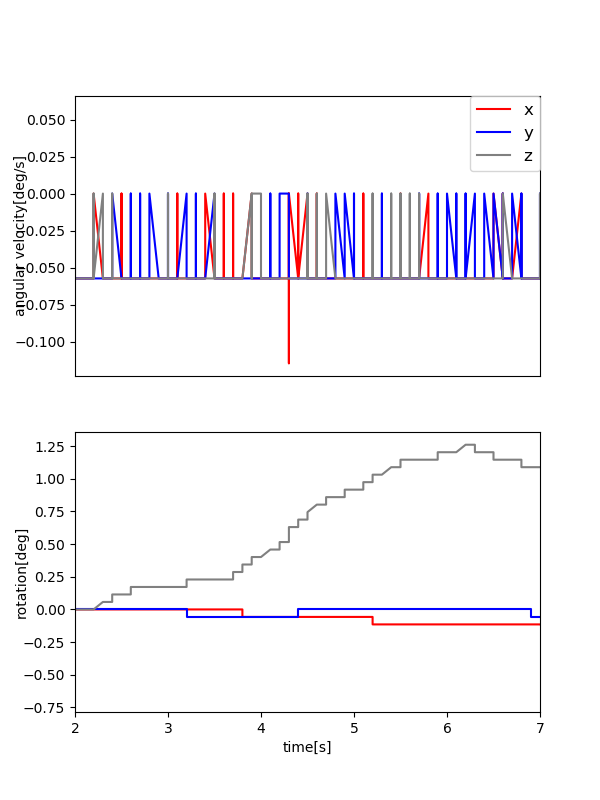
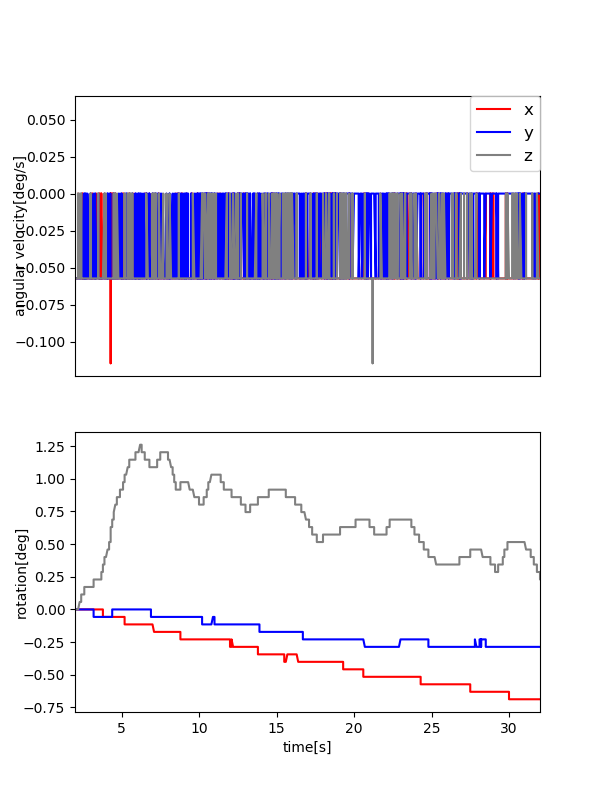
rotationMatrix

diff --git a/app/src/main/java/com/example/deadreckoning/MainActivity.java b/app/src/main/java/com/example/deadreckoning/MainActivity.java
@@ -16,172 +16,221 @@ import java.io.OutputStreamWriter;
 import java.io.PrintWriter;
 
 public class MainActivity extends AppCompatActivity implements SensorEventListener {
-    private SensorManager m_sensorManager;
+    private SensorManager sensorManager;
 
-    private TextView m_accel_val_x_TextView, m_accel_val_y_TextView, m_accel_val_z_TextView;
-    private TextView m_rot_val_x_TextView, m_rot_val_y_TextView, m_rot_val_z_TextView;
-    private TextView m_vel_val_x_TextView, m_vel_val_y_TextView, m_vel_val_z_TextView;
-    private TextView m_pos_val_x_TextView, m_pos_val_y_TextView, m_pos_val_z_TextView;
+    // 画面表示
+    private TextView acc_x_text, acc_y_text, acc_z_text;
+    private TextView vel_x_text, vel_y_text, vel_z_text;
+    private TextView pos_x_text, pos_y_text, pos_z_text;
+    private TextView rot_x_text, rot_y_text, rot_z_text;
 
-    private float m_sensor_accel_val_x, m_sensor_accel_val_y, m_sensor_accel_val_z;
-    private float m_sensor_rot_val_x, m_sensor_rot_val_y, m_sensor_rot_val_z;
-
-    private Runnable m_runnable;
-    private final Handler m_handler = new Handler();
-
-    double filterCoefficient = 0.9;
-    double[] lowpassValue = {0,0,0};
-
-    final double timeSpan = 0.02;      // 時間差分[s]
+    // 周期ハンドラ
+    private Runnable runnable;
+    private final Handler handler = new Handler();
+    
+    // 時間
+    final double timeSpan = 0.02;
     double time = 0;
+    double start;
 
-    double[] speed = {0,0,0};
-    double[] diff = {0,0,0};
-    double[] oldacc = {0,0,0};
-    double[] oldspeed = {0,0,0};
+    // 加速度センサー
+    float[] acc_device = new float[3];
+    float[] acc_world = new float[3];
+    float[] speed = new float[3];
+    float[] diff = new float[3];
+    float[] oldacc = new float[3];
+    float[] oldspeed = new float[3];
 
-    double[] rotdiff = {0,0,0};
-    double[] oldrotacc = {0,0,0};
-    double[] oldrotspeed = {0,0,0};
+    // ジャイロセンサー
+    float[] angularVelocity = new float[3];
+    float[] angulardiff = new float[3];
+    float[] oldAngularVelocity = new float[3];
 
+    // 地磁気・重力センサー
+    float[] geomagnetic = new float[3];
+    float[] gravity = new float[3];
+    float[] rotationMatrix = new float[9];
+    float[] attitude = new float[3];
+
+    // 出力ファイル名
     String fileName = "pos.txt";
 
-    private static final int MATRIX_SIZE = 16;
+    protected final static float RAD2DEG = 180/(float)Math.PI;
 
     @Override protected void onCreate(Bundle savedInstanceState) {
         super.onCreate(savedInstanceState);
         setContentView(R.layout.activity_main);
 
         deleteFile(fileName);
-        sampleFileOutput("time,acc_x,acc_y,acc_z,vel_x,vel_y,vel_z,pos_x,pos_y,pos_z," +
-                "rot_x,rot_y,rot_z,rotvel_x,rotvel_y,rotvel_z,rotpos_x,rotpos_y,rotpos_z\n", fileName);
+        sampleFileOutput("time," +
+                "acc_x,acc_y,acc_z," +
+                "vel_x,vel_y,vel_z," +
+                "pos_x,pos_y,pos_z," +
+                "rot_x,rot_y,rot_z," +
+                "rotvel_x,rotvel_y,rotvel_z," +
+                "rotpos_x,rotpos_y,rotpos_z\n", fileName);
 
-        m_sensorManager = (SensorManager)getSystemService(SENSOR_SERVICE);
+        sensorManager = (SensorManager)getSystemService(SENSOR_SERVICE);
 
-        m_accel_val_x_TextView = findViewById(R.id.accel_val_x);
-        m_accel_val_y_TextView = findViewById(R.id.accel_val_y);
-        m_accel_val_z_TextView = findViewById(R.id.accel_val_z);
-        m_sensor_accel_val_x = m_sensor_accel_val_y = m_sensor_accel_val_z = 0;
+        acc_x_text = findViewById(R.id.accel_val_x);
+        acc_y_text = findViewById(R.id.accel_val_y);
+        acc_z_text = findViewById(R.id.accel_val_z);
 
-        m_rot_val_x_TextView = findViewById(R.id.rot_val_x);
-        m_rot_val_y_TextView = findViewById(R.id.rot_val_y);
-        m_rot_val_z_TextView = findViewById(R.id.rot_val_z);
-        m_sensor_rot_val_x = m_sensor_rot_val_y = m_sensor_rot_val_z = 0;
+        rot_x_text = findViewById(R.id.rot_val_x);
+        rot_y_text = findViewById(R.id.rot_val_y);
+        rot_z_text = findViewById(R.id.rot_val_z);
 
-        m_vel_val_x_TextView = findViewById(R.id.vel_val_x);
-        m_vel_val_y_TextView = findViewById(R.id.vel_val_y);
-        m_vel_val_z_TextView = findViewById(R.id.vel_val_z);
+        vel_x_text = findViewById(R.id.vel_val_x);
+        vel_y_text = findViewById(R.id.vel_val_y);
+        vel_z_text = findViewById(R.id.vel_val_z);
 
-        m_pos_val_x_TextView = findViewById(R.id.pos_val_x);
-        m_pos_val_y_TextView = findViewById(R.id.pos_val_y);
-        m_pos_val_z_TextView = findViewById(R.id.pos_val_z);
+        pos_x_text = findViewById(R.id.pos_val_x);
+        pos_y_text = findViewById(R.id.pos_val_y);
+        pos_z_text = findViewById(R.id.pos_val_z);
 
         if(isExternalStorageWritable() == true)StartCyclicHandler();       // 周期ハンドラ開始
+        start = System.currentTimeMillis()/1000.0;
     }
 
     @Override protected void onResume() {
         super.onResume();
 
         // Event Listener登録
-        Sensor accel = m_sensorManager.getDefaultSensor(Sensor.TYPE_LINEAR_ACCELERATION);
-        m_sensorManager.registerListener(this, accel, SensorManager.SENSOR_DELAY_GAME);
-        Sensor rot = m_sensorManager.getDefaultSensor(Sensor.TYPE_ROTATION_VECTOR);
-        m_sensorManager.registerListener(this, rot, SensorManager.SENSOR_DELAY_GAME);
-        Sensor gyro = m_sensorManager.getDefaultSensor(Sensor.TYPE_GYROSCOPE);
-        m_sensorManager.registerListener(this, gyro, SensorManager.SENSOR_DELAY_GAME);
+        sensorManager.registerListener(
+                this,
+                sensorManager.getDefaultSensor(Sensor.TYPE_LINEAR_ACCELERATION),
+                SensorManager.SENSOR_DELAY_GAME);
+        sensorManager.registerListener(
+                this,
+                sensorManager.getDefaultSensor(Sensor.TYPE_GYROSCOPE),
+                SensorManager.SENSOR_DELAY_GAME);
+        sensorManager.registerListener(
+                this,
+                sensorManager.getDefaultSensor(Sensor.TYPE_GRAVITY),
+                SensorManager.SENSOR_DELAY_GAME);
+        sensorManager.registerListener(
+                this,
+                sensorManager.getDefaultSensor(Sensor.TYPE_MAGNETIC_FIELD),
+                SensorManager.SENSOR_DELAY_GAME);
     }
 
     @Override protected void onPause() {
         super.onPause();
-        m_sensorManager.unregisterListener(this);   // Event Listener登録解除
-        StoptCyclicHandler();                       // 周期ハンドラ停止
+        sensorManager.unregisterListener(this);   // Event Listener登録解除
+        StoptCyclicHandler();                     // 周期ハンドラ停止
+    }
+
+    public float LPF(float value, float oldvalue, double Coefficient) {
+        return oldvalue * (float)Coefficient + value * (1 - (float)Coefficient);
     }
 
     // センサーの値更新
     @Override public void onSensorChanged(SensorEvent event) {
         if(event.sensor.getType() == Sensor.TYPE_LINEAR_ACCELERATION){
-            m_sensor_accel_val_x = event.values[0];
-            m_sensor_accel_val_y = event.values[1];
-            m_sensor_accel_val_z = event.values[2];
+            acc_device = event.values.clone();
 
             if(time < 2) return;
             for(int i = 0; i < 3; i++) {
-                // ローパスフィルター(現在の値 = 係数 * ひとつ前の値 ＋ (1 - 係数) * センサの値)
-                lowpassValue[i] = lowpassValue[i] * filterCoefficient + event.values[i] * (1 - filterCoefficient);
+                float lowpassValue = LPF(acc_device[i],oldacc[i], 0.9);
+                
+                speed[i] += (oldacc[i] + lowpassValue)/2.0 * timeSpan;
+                diff[i]  += (oldspeed[i] + speed[i])/2.0 * timeSpan;
 
-                speed[i] += (oldacc[i] + lowpassValue[i])/2.0 * timeSpan;
-                diff[i] += (oldspeed[i] + speed[i])/2.0 * timeSpan;
-
-                oldacc[i] = lowpassValue[i];
+                oldacc[i]   = lowpassValue;
                 oldspeed[i] = speed[i];
             }
         }
         else if(event.sensor.getType() == Sensor.TYPE_GYROSCOPE){
-            m_sensor_rot_val_x = event.values[0];
-            m_sensor_rot_val_y = event.values[1];
-            m_sensor_rot_val_z = event.values[2];
+            angularVelocity = event.values.clone();
 
             if(time < 2) return;
             for(int i = 0; i < 3; i++) {
-                // ローパスフィルター(現在の値 = 係数 * ひとつ前の値 ＋ (1 - 係数) * センサの値)
-                lowpassValue[i] = lowpassValue[i] * filterCoefficient + event.values[i] * (1 - filterCoefficient);
-                rotdiff[i] += (oldrotacc[i] + lowpassValue[i])/2.0 * timeSpan;
-                oldrotspeed[i] = lowpassValue[i];
+                float lowpassValue = LPF(angularVelocity[i],oldAngularVelocity[i], 0.9);
+                angulardiff[i] += (oldAngularVelocity[i] + lowpassValue)/2.0 * timeSpan;
+                oldAngularVelocity[i] = lowpassValue;
             }
+        }
+
+        switch(event.sensor.getType()){
+            case Sensor.TYPE_LINEAR_ACCELERATION:
+                gravity = event.values.clone();
+                break;
+            case Sensor.TYPE_GYROSCOPE:
+                gravity = event.values.clone();
+                break;
+            case Sensor.TYPE_GRAVITY:
+                gravity = event.values.clone();
+                break;
+            case Sensor.TYPE_MAGNETIC_FIELD:
+                geomagnetic = event.values.clone();
+                break;
+        }
+
+        if(geomagnetic != null && gravity != null){
+            SensorManager.getRotationMatrix(rotationMatrix, null, gravity, geomagnetic);
+            SensorManager.getOrientation(rotationMatrix, attitude);
         }
     }
 
-    // 値表示
+    // 周期ハンドラ　50[Hz]
     protected void StartCyclicHandler(){
-        m_runnable = new Runnable() {
+        runnable = new Runnable() {
             @Override public void run() {
-            m_accel_val_x_TextView.setText(String.format("%.3f", m_sensor_accel_val_x));
-            m_accel_val_y_TextView.setText(String.format("%.3f", m_sensor_accel_val_y));
-            m_accel_val_z_TextView.setText(String.format("%.3f", m_sensor_accel_val_z));
+                time = System.currentTimeMillis()/1000.0 - start;
 
-            m_rot_val_x_TextView.setText(String.format("%.3f", m_sensor_rot_val_x));
-            m_rot_val_y_TextView.setText(String.format("%.3f", m_sensor_rot_val_y));
-            m_rot_val_z_TextView.setText(String.format("%.3f", m_sensor_rot_val_z));
+                // 画面出力
+                acc_x_text.setText(String.format("%.3f", acc_device[0]));
+                acc_y_text.setText(String.format("%.3f", acc_device[1]));
+                acc_z_text.setText(String.format("%.3f", acc_device[2]));
 
-            m_vel_val_x_TextView.setText(String.format("%.3f", speed[0]));
-            m_vel_val_y_TextView.setText(String.format("%.3f", speed[1]));
-            m_vel_val_z_TextView.setText(String.format("%.3f", speed[2]));
+//                rot_x_text.setText(String.format("%.3f", angulardiff[0] * RAD2DEG));
+//                rot_y_text.setText(String.format("%.3f", angulardiff[1] * RAD2DEG));
+//                rot_z_text.setText(String.format("%.3f", angulardiff[2] * RAD2DEG));
 
-            m_pos_val_x_TextView.setText(String.format("%.3f", diff[0]));
-            m_pos_val_y_TextView.setText(String.format("%.3f", diff[1]));
-            m_pos_val_z_TextView.setText(String.format("%.3f", diff[2]));
+                rot_x_text.setText(Integer.toString( (int)(attitude[0] * RAD2DEG) ));
+                rot_y_text.setText(Integer.toString( (int)(attitude[1] * RAD2DEG) ));
+                rot_z_text.setText(Integer.toString( (int)(attitude[2] * RAD2DEG) ));
 
-            time += timeSpan;
+                vel_x_text.setText(String.format("%.3f", speed[0]));
+                vel_y_text.setText(String.format("%.3f", speed[1]));
+                vel_z_text.setText(String.format("%.3f", speed[2]));
 
-            String text = new String();
-            text += String.format("%.1f",time);
-            text += String.format(",%.3f",m_sensor_accel_val_x);
-            text += String.format(",%.3f",m_sensor_accel_val_y);
-            text += String.format(",%.3f",m_sensor_accel_val_z);
-            text += String.format(",%.3f",speed[0]);
-            text += String.format(",%.3f",speed[1]);
-            text += String.format(",%.3f",speed[2]);
-            text += String.format(",%.3f",diff[0]);
-            text += String.format(",%.3f",diff[1]);
-            text += String.format(",%.3f",diff[2]);
-            text += String.format(",%.3f",m_sensor_rot_val_x);
-            text += String.format(",%.3f",m_sensor_rot_val_y);
-            text += String.format(",%.3f",m_sensor_rot_val_z);
-            text += String.format(",%.3f",rotdiff[0]);
-            text += String.format(",%.3f",rotdiff[1]);
-            text += String.format(",%.3f",rotdiff[2]);
-            text += String.format("\n");
+                pos_x_text.setText(String.format("%.3f", diff[0]));
+                pos_y_text.setText(String.format("%.3f", diff[1]));
+                pos_z_text.setText(String.format("%.3f", diff[2]));
 
-            sampleFileOutput(text, fileName);
+                // ファイル出力
+                String text = new String();
+                text += String.format("%.3f",time);
+                text += String.format(",%.3f", acc_world[0]);
+                text += String.format(",%.3f", acc_world[1]);
+                text += String.format(",%.3f", acc_world[2]);
+                text += String.format(",%.3f", speed[0]);
+                text += String.format(",%.3f", speed[1]);
+                text += String.format(",%.3f", speed[2]);
+                text += String.format(",%.3f", diff[0]);
+                text += String.format(",%.3f", diff[1]);
+                text += String.format(",%.3f", diff[2]);
+                text += String.format(",%.3f", angularVelocity[0]);
+                text += String.format(",%.3f", angularVelocity[1]);
+                text += String.format(",%.3f", angularVelocity[2]);
+                text += String.format(",%.3f", angulardiff[0]);
+                text += String.format(",%.3f", angulardiff[1]);
+                text += String.format(",%.3f", angulardiff[2]);
+                text += String.format(",%.3f", attitude[0]);
+                text += String.format(",%.3f", attitude[1]);
+                text += String.format(",%.3f", attitude[2]);
+                text += String.format("\n");
+                sampleFileOutput(text, fileName);
 
-            m_handler.postDelayed(this, 20);    // 200msスリープ
+                handler.postDelayed(this, 20);    // 20msスリープ
             }
         };
-        m_handler.post(m_runnable);     // スレッド起動
+        handler.post(runnable);     // スレッド起動
     }
 
     protected void StoptCyclicHandler() {
-        m_handler.removeCallbacks(m_runnable);
+        handler.removeCallbacks(runnable);
     }
 
     @Override public void onAccuracyChanged(Sensor sensor, int accuracy) {

diff --git a/実験データ/rotgraph.py b/実験データ/rotgraph.py
@@ -11,7 +11,7 @@ graph.plot(time,rotacc_z * 180/np.pi, color="gray", label = "z")
 plt.tick_params(labelbottom=False, bottom=False)
 graph.set_ylabel("angular velocity[deg/s]")
 graph.yaxis.set_label_coords(-0.1, 0.5)
-plt.xlim(2,7)
+plt.xlim(2,32)
 # plt.ylim(-0.13,0.13)
 plt.legend(bbox_to_anchor=(1, 1), loc='upper right', borderaxespad=0, fontsize=12)
 
@@ -19,7 +19,7 @@ graph = fig1.add_subplot(212)
 graph.plot(time,rotpos_x * 180/np.pi, color="red")
 graph.plot(time,rotpos_y * 180/np.pi, color="blue")
 graph.plot(time,rotpos_z * 180/np.pi, color="gray")
-plt.xlim(2,7)
+plt.xlim(2,32)
 # plt.ylim(-0.5,1.5)
 graph.set_ylabel("rotation[deg]")
 graph.yaxis.set_label_coords(-0.1, 0.5)
